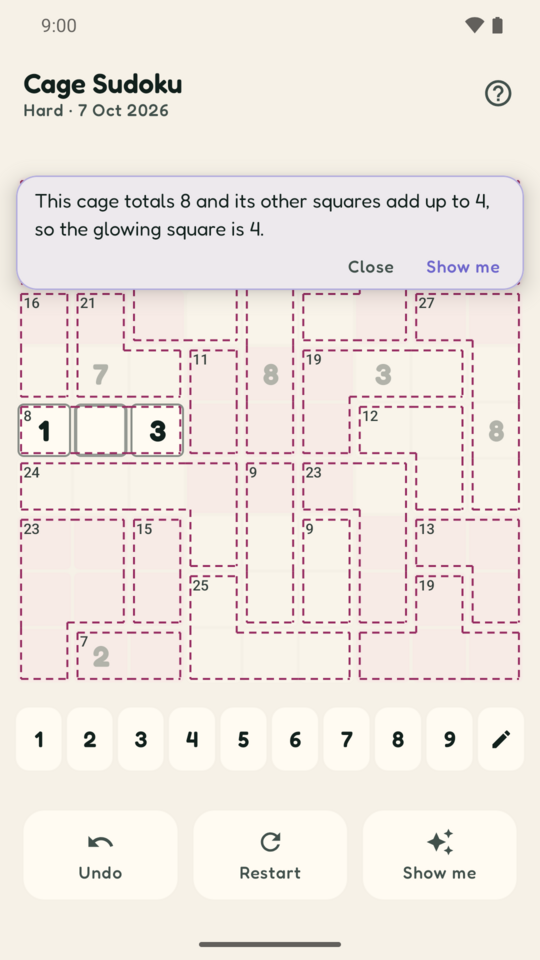
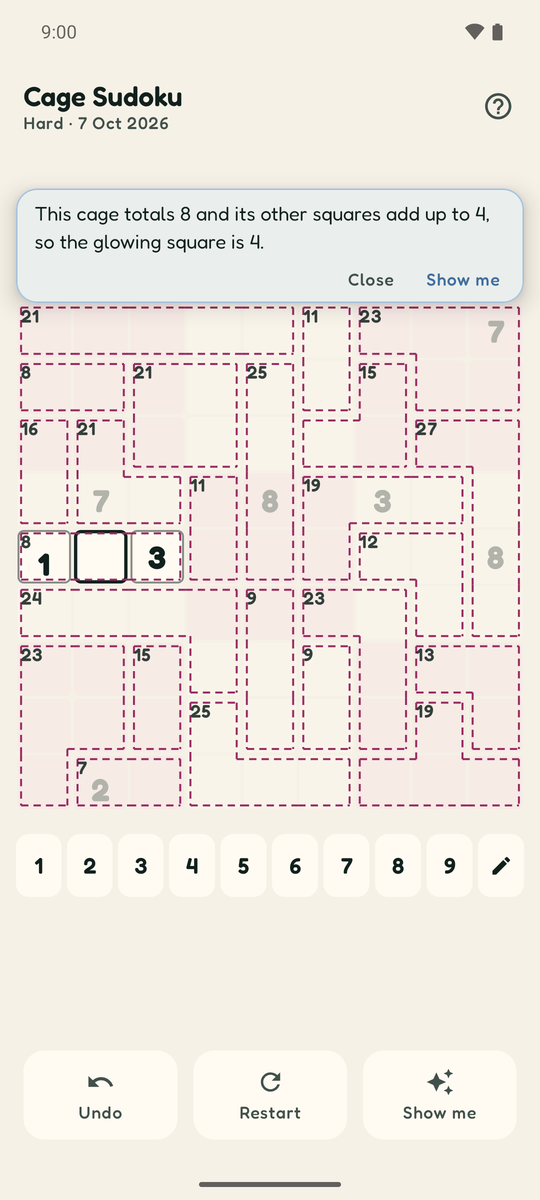
Recapture the README screenshots from current main
Clean install on the emulator, date pinned to 7 October 2026: the home grid
now shows the new puzzles and accents, the Sudoku hint its Practise this
button. Phone shots are half scale of a 1080x2400 screen (540x1200), as
CLAUDE.md says; the tablet shot keeps 1280x720.

diff --git a/README.md b/README.md
@@ -13,7 +13,7 @@ No ads. No subscription. No accounts. No network permission in the manifest at a
 
 | Every puzzle, every day | Sudoku | Cage Sudoku | Word Wheel |
 |---|---|---|---|
-| ![The home screen on day one: today's three over the grid of puzzles, the first nine in view](docs/screenshots/home.png) | ![A Sudoku board with a hint open](docs/screenshots/sudoku.png) | ![A Hard Cage Sudoku board with a hint open](docs/screenshots/cage-sudoku.png) | ![A Word Wheel board](docs/screenshots/word-wheel.png) |
+| ![The home screen on day one: today's three over the grid of all 31 puzzles, the first fifteen in view, Crossword and Mines among them](docs/screenshots/home.png) | ![A Sudoku board with a hint open, offering to practise its technique](docs/screenshots/sudoku.png) | ![A Hard Cage Sudoku board with a hint open](docs/screenshots/cage-sudoku.png) | ![A Word Wheel board](docs/screenshots/word-wheel.png) |
 
 ![On a tablet the board sits beside the title, hints and tools: a Cage Sudoku with a hint open](docs/screenshots/tablet-cage-sudoku.png)
 
